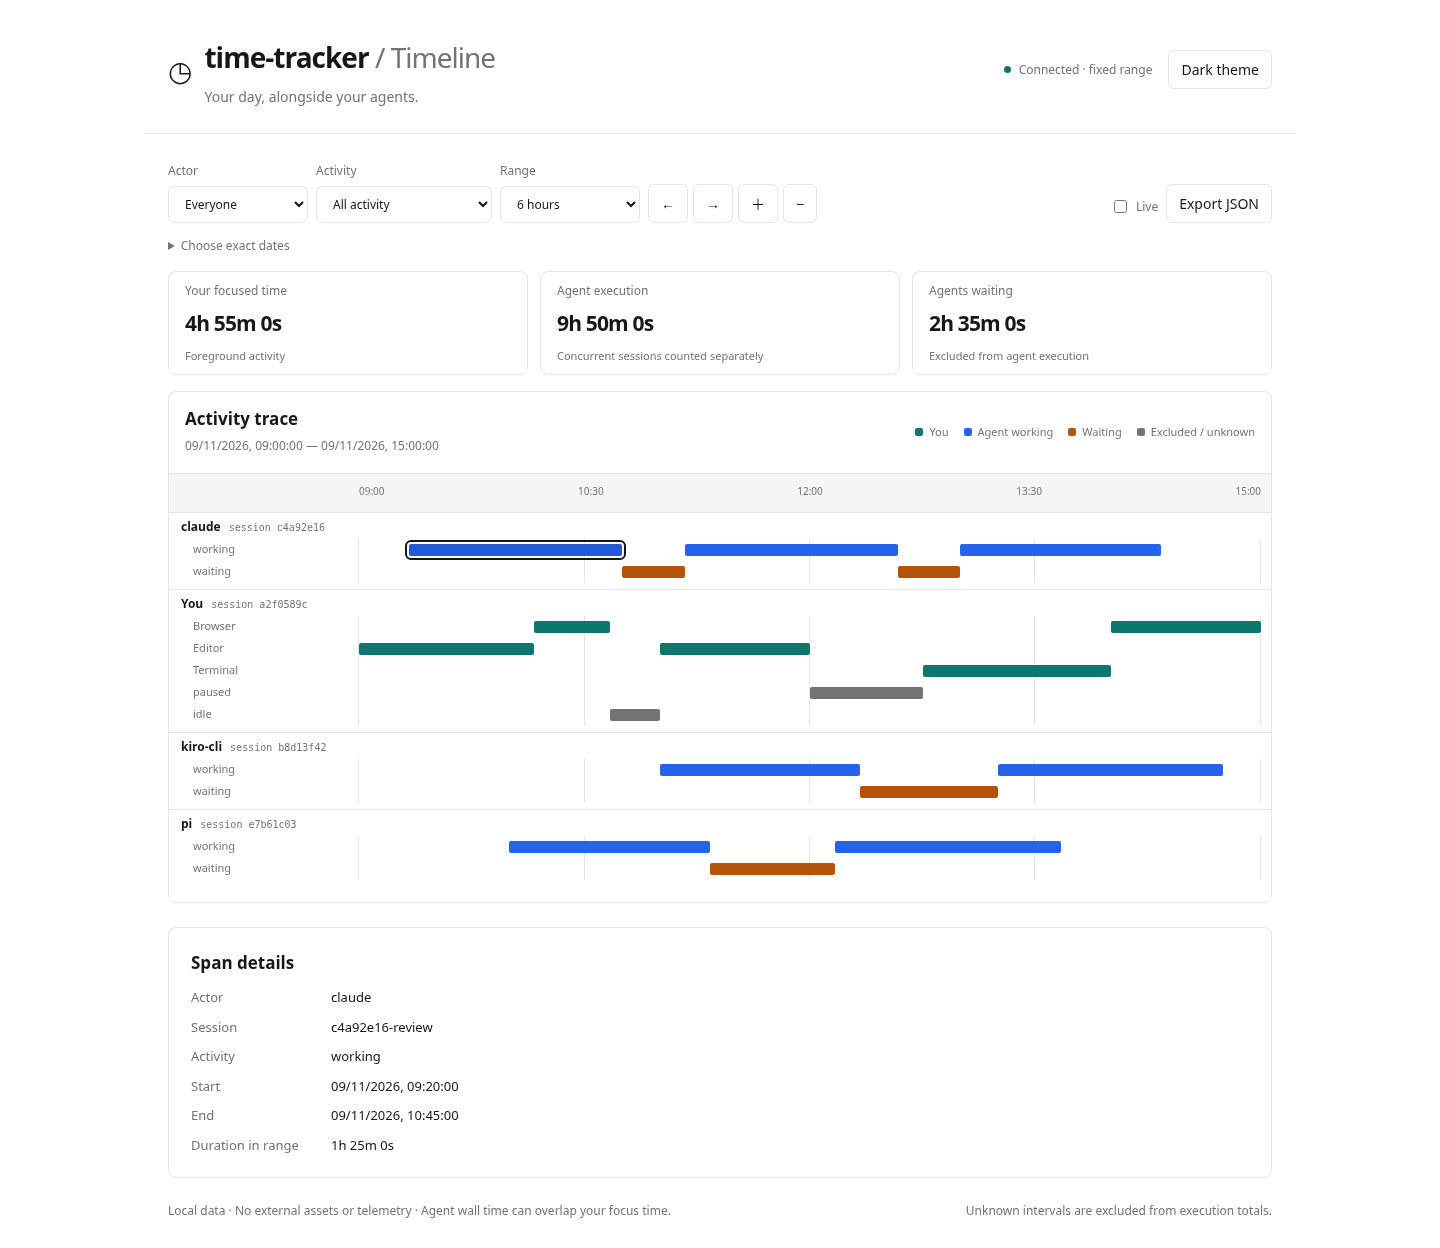
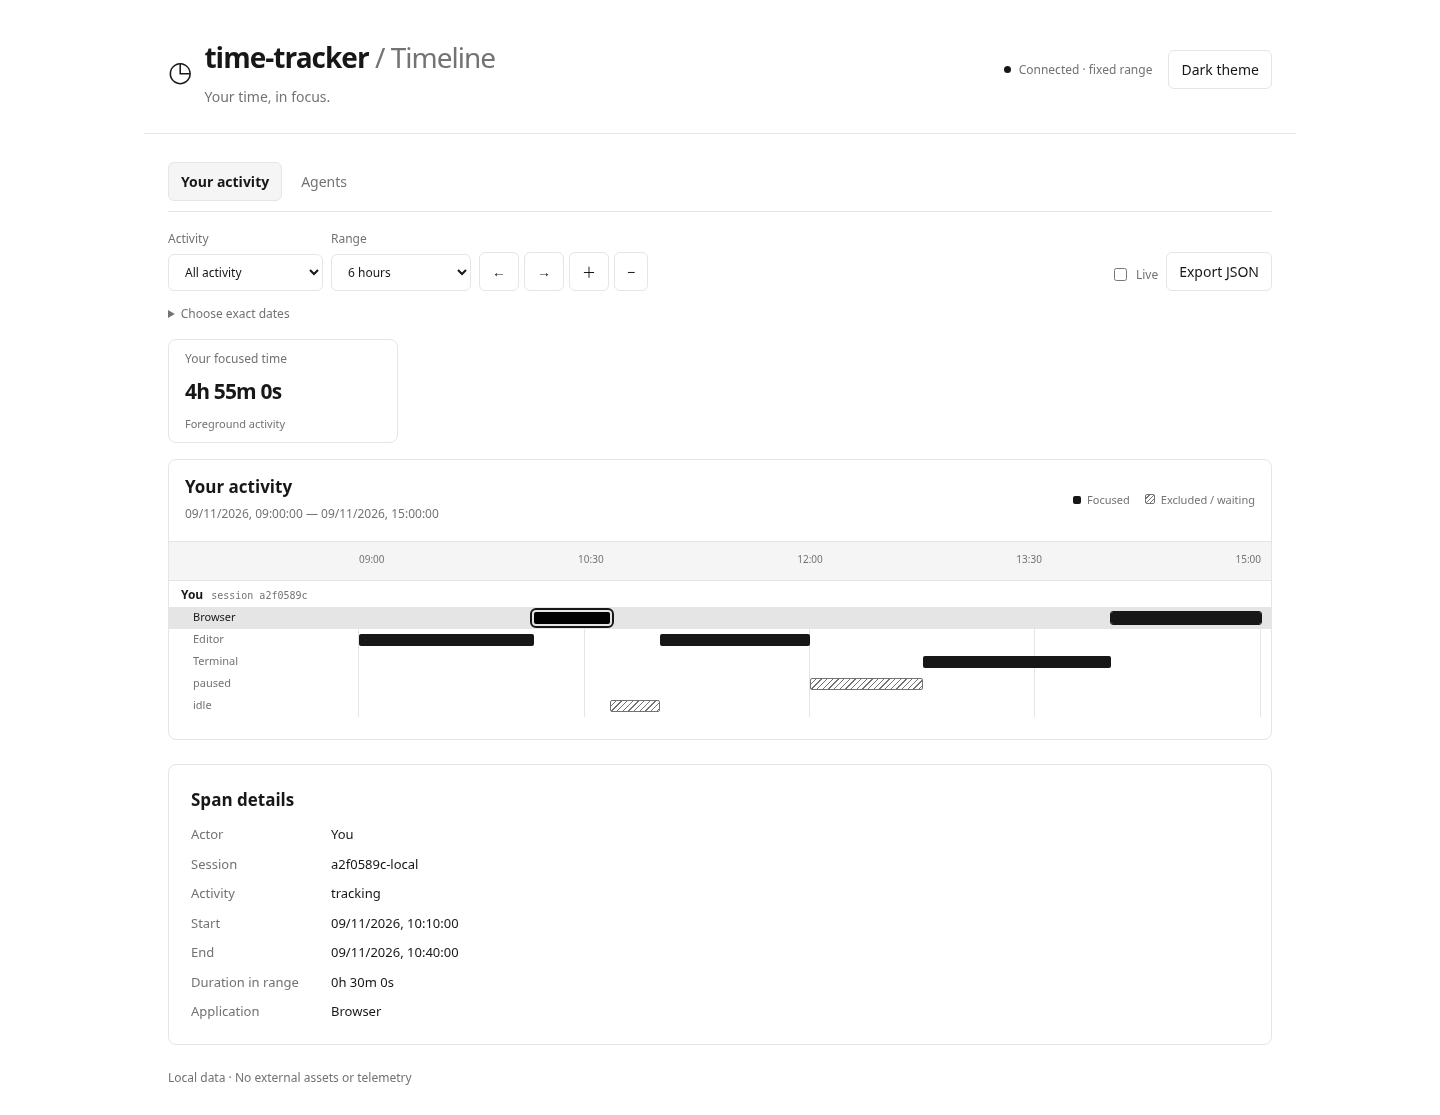
feat: prioritize personal activity with separate monochrome agent view

diff --git a/poc/timeline-web/style.css b/poc/timeline-web/style.css
@@ -6,13 +6,15 @@
   --line: #e5e5e5;
   --text: #171717;
   --muted: #737373;
-  --accent: #2563eb;
+  --accent: #171717;
   --soft: #f5f5f5;
-  --human: #0f766e;
-  --working: #2563eb;
-  --waiting: #b45309;
+  --human: #171717;
+  --working: #171717;
+  --waiting: #737373;
   --unknown: #737373;
   --span-text: #fff;
+  --row-hover: #e5e5e5;
+  --bar-hover: #000;
 }
 :root[data-theme=dark] {
   color-scheme: dark;
@@ -21,13 +23,15 @@
   --line: #363636;
   --text: #fafafa;
   --muted: #aaa;
-  --accent: #60a5fa;
+  --accent: #fafafa;
   --soft: #262626;
-  --human: #5eead4;
-  --working: #60a5fa;
-  --waiting: #fbbf24;
+  --human: #fafafa;
+  --working: #fafafa;
+  --waiting: #aaa;
   --unknown: #aaa;
   --span-text: #171717;
+  --row-hover: #363636;
+  --bar-hover: #fff;
 }
 * { box-sizing: border-box; }
 [hidden] { display: none !important; }
@@ -45,6 +49,9 @@ p { margin: 4px 0; color: var(--muted); }
 #dot { width: 7px; height: 7px; border-radius: 50%; background: var(--waiting); }
 #dot.connected { background: var(--human); }
 main { max-width: 1152px; margin: auto; padding: 28px 24px; }
+.view-switch { display: flex; gap: 6px; margin-bottom: 18px; border-bottom: 1px solid var(--line); padding-bottom: 10px; }
+.view-switch button { border-color: transparent; color: var(--muted); }
+.view-switch button[aria-pressed=true] { color: var(--text); background: var(--soft); border-color: var(--line); font-weight: 600; }
 .toolbar { display: flex; align-items: end; gap: 8px; flex-wrap: wrap; }
 label { display: flex; flex-direction: column; gap: 6px; font-size: 12px; color: var(--muted); }
 button,select,input { font: inherit; color: var(--text); background: var(--panel); border: 1px solid var(--line); border-radius: 6px; padding: 8px 12px; }
@@ -58,7 +65,7 @@ select { min-width: 140px; }
 .custom { margin: 14px 0; color: var(--muted); font-size: 12px; }
 .custom summary { cursor: pointer; }
 #dates { display: flex; gap: 12px; align-items: end; flex-wrap: wrap; padding-top: 12px; }
-.metrics { display: grid; grid-template-columns: repeat(3,1fr); gap: 12px; margin: 16px 0; }
+.metrics { display: grid; grid-template-columns: repeat(auto-fit,minmax(190px,230px)); gap: 12px; margin: 16px 0; }
 .metrics article { border: 1px solid var(--line); border-radius: 8px; padding: 10px 16px; background: var(--panel); display: flex; flex-direction: column; }
 .metrics span { color: var(--muted); font-size: 12px; }
 .metrics strong { font-size: 21px; letter-spacing: -.04em; font-weight: 600; margin: 8px 0; font-variant-numeric: tabular-nums; }
@@ -68,9 +75,8 @@ small { color: var(--muted); font-size: 11px; }
 .panel-heading p { font-size: 12px; margin-top: 5px; }
 .legend { display: flex; flex-wrap: wrap; gap: 15px; font-size: 11px; color: var(--muted); }
 .legend span:before { content: ''; display: inline-block; width: 8px; height: 8px; background: var(--unknown); border-radius: 2px; margin-right: 6px; }
-.legend .human:before { background: var(--human); }
-.legend .working:before { background: var(--working); }
-.legend .waiting:before { background: var(--waiting); }
+.legend .active:before { background: var(--text); }
+.legend .excluded:before { border: 1px solid var(--muted); background: repeating-linear-gradient(135deg,var(--panel) 0,var(--panel) 2px,var(--muted) 2px,var(--muted) 3px); }
 #notice { font-size: 12px; color: var(--text); padding: 0 22px; }
 #notice:not(:empty) { padding: 12px 22px; border-left: 3px solid var(--accent); }
 #timeline { overflow-x: auto; padding-bottom: 16px; }
@@ -80,15 +86,18 @@ small { color: var(--muted); font-size: 11px; }
 .lane { border-top: 1px solid var(--line); min-width: 720px; padding-bottom: 6px; }
 .lane-label { padding: 5px 12px 3px; display: flex; align-items: baseline; gap: 8px; font-size: 12px; font-weight: 600; }
 .subtrack { height: 22px; }
+.subtrack:hover,.subtrack:focus-within { background-color: var(--row-hover); box-shadow: inset 0 1px var(--line),inset 0 -1px var(--line); }
+.subtrack:hover .subtrack-label,.subtrack:focus-within .subtrack-label { background: var(--row-hover); color: var(--text); }
+.subtrack:hover .span,.subtrack:focus-within .span { outline: 1px solid var(--text); outline-offset: 0; }
 .subtrack-label { position: sticky; left: 0; z-index: 3; padding: 2px 12px 2px 24px; border-right: 1px solid var(--line); color: var(--muted); background: var(--panel); font-size: 11px; overflow: hidden; text-overflow: ellipsis; white-space: nowrap; }
 .lane-label small { font-family: ui-monospace,monospace; font-size: 10px; font-weight: 400; }
 .track { position: relative; margin: 0 10px 0 0; min-height: 22px; background: repeating-linear-gradient(to right,transparent 0,transparent calc(25% - 1px),var(--line) calc(25% - 1px),var(--line) 25%); }
 .span { position: absolute; top: 5px; height: 12px; min-width: 2px; border: 0; border-radius: 2px; padding: 0; overflow: hidden; text-overflow: ellipsis; white-space: nowrap; text-align: left; font-size: 11px; color: var(--span-text); background: var(--unknown); }
 .span[data-status=working] { background: var(--working); }
 .span[data-status=tracking] { background: var(--human); }
-.span[data-status=waiting] { background: var(--waiting); }
-.span[aria-pressed=true] { outline: 2px solid var(--text); outline-offset: 2px; z-index: 2; }
-.span:hover { filter: brightness(.92); }
+.span:not([data-status=tracking]):not([data-status=working]) { border: 1px solid var(--muted); background: repeating-linear-gradient(135deg,var(--panel) 0,var(--panel) 3px,var(--muted) 3px,var(--muted) 4px); }
+.span[aria-pressed=true],.subtrack:hover .span[aria-pressed=true],.subtrack:focus-within .span[aria-pressed=true] { outline: 2px solid var(--text); outline-offset: 2px; z-index: 2; }
+.span[data-status=tracking]:hover,.span[data-status=working]:hover { background: var(--bar-hover); }
 #empty { text-align: center; padding: 50px 22px; }
 #empty p { max-width: 570px; margin: 10px auto; font-size: 13px; }
 .inspector { padding: 22px; }
@@ -113,7 +122,7 @@ code { color: var(--accent); }
 }
 @media print {
   :root,:root[data-theme=dark] { --bg:#fff; --panel:#fff; --text:#111; --muted:#555; --line:#ddd; --soft:#f5f5f5; }
-  .toolbar,.custom,.header-tools { display: none !important; }
+  .toolbar,.custom,.header-tools,.view-switch { display: none !important; }
   .panel,.metrics article { break-inside: avoid; }
   .span { print-color-adjust: exact; }
 }

diff --git a/poc/timeline-web/index.html b/poc/timeline-web/index.html
@@ -2,19 +2,20 @@
 <html lang="en">
 <head><meta charset="utf-8"><meta name="viewport" content="width=device-width,initial-scale=1"><title>Focus · Timeline</title><link rel="stylesheet" href="/style.css"><script src="/app.js" defer></script></head>
 <body>
-<header><div class="brand"><span class="mark" aria-hidden="true">◷</span><div><h1>time-tracker <span>/ Timeline</span></h1><p>Your day, alongside your agents.</p></div></div><div class="header-tools"><div class="connection"><span id="dot"></span><span id="connection" role="status">Connecting</span></div><button id="theme-toggle" type="button" aria-pressed="false">Dark theme</button></div></header>
+<header><div class="brand"><span class="mark" aria-hidden="true">◷</span><div><h1>time-tracker <span>/ Timeline</span></h1><p>Your time, in focus.</p></div></div><div class="header-tools"><div class="connection"><span id="dot"></span><span id="connection" role="status">Connecting</span></div><button id="theme-toggle" type="button" aria-pressed="false">Dark theme</button></div></header>
 <main>
+<nav class="view-switch" aria-label="Timeline view"><button id="view-person" type="button" aria-pressed="true">Your activity</button><button id="view-agents" type="button" aria-pressed="false">Agents</button></nav>
 <section class="toolbar" aria-label="Timeline controls">
-<label>Actor<select id="agent"><option value="">Everyone</option><option value="human">You</option><option>claude</option><option>pi</option><option>kiro-cli</option></select></label>
+<label id="agent-filter" hidden>Agent<select id="agent"><option value="agents">All agents</option><option>claude</option><option>pi</option><option>kiro-cli</option></select></label>
 <label>Activity<select id="status"><option value="">All activity</option><option value="working">Agent working</option><option value="waiting">Waiting</option><option value="tracking">Your focus</option><option value="paused">Paused</option><option value="idle">Idle</option><option value="locked">Locked</option><option value="unknown">Unknown / interrupted</option><option value="activity-unavailable">Activity unavailable</option><option value="IPC unavailable">IPC unavailable</option><option value="no focus">No focus</option></select></label>
 <label>Range<select id="range"><option value="900000">15 minutes</option><option value="3600000">1 hour</option><option value="21600000">6 hours</option><option value="86400000" selected>24 hours</option></select></label>
 <div class="navigation"><button id="previous" aria-label="Previous time range">←</button><button id="next" aria-label="Next time range">→</button><button id="zoom-in" aria-label="Zoom in">＋</button><button id="zoom-out" aria-label="Zoom out">−</button></div>
 <label class="live"><input type="checkbox" id="live" checked> Live</label><button id="export">Export JSON</button>
 </section>
 <details class="custom"><summary>Choose exact dates</summary><form id="dates"><label>From<input id="from" type="datetime-local" required></label><label>To<input id="to" type="datetime-local" required></label><button>Apply range</button></form></details>
-<section class="metrics" aria-label="Totals in selected range"><article><span>Your focused time</span><strong id="human-total">—</strong><small>Foreground activity</small></article><article><span>Agent execution</span><strong id="agent-total">—</strong><small>Concurrent sessions counted separately</small></article><article><span>Agents waiting</span><strong id="waiting-total">—</strong><small>Excluded from agent execution</small></article></section>
-<section class="panel"><div class="panel-heading"><div><h2>Activity trace</h2><p id="range-label">Loading your timeline…</p></div><div class="legend"><span class="human">You</span><span class="working">Agent working</span><span class="waiting">Waiting</span><span class="unknown">Excluded / unknown</span></div></div><div id="notice" role="status"></div><div id="timeline" aria-label="Activity timeline"></div><div id="empty" hidden><h3>No activity in this range</h3><p>Start the focus tracker with <code>--timeline</code>, or connect an agent using the integration guide.</p><p>Older summary checkpoints have no timeline history.</p></div></section>
+<section class="metrics" aria-label="Totals in selected range"><article id="human-metric"><span>Your focused time</span><strong id="human-total">—</strong><small>Foreground activity</small></article><article id="agent-metric" hidden><span>Agent execution</span><strong id="agent-total">—</strong><small>Concurrent sessions counted separately</small></article><article id="waiting-metric" hidden><span>Agents waiting</span><strong id="waiting-total">—</strong><small>Excluded from execution</small></article></section>
+<section class="panel"><div class="panel-heading"><div><h2 id="trace-title">Your activity</h2><p id="range-label">Loading your timeline…</p></div><div class="legend"><span id="legend-active" class="active">Focused</span><span class="excluded">Excluded / waiting</span></div></div><div id="notice" role="status"></div><div id="timeline" aria-label="Activity timeline"></div><div id="empty" hidden><h3 id="empty-title">No personal activity in this range</h3><p id="empty-help">Start the focus tracker with <code>--timeline</code> to record your activity.</p><p>Older summary checkpoints have no timeline history.</p></div></section>
 <section id="inspector" class="panel inspector" aria-label="Selected span details"><h2>Span details</h2><p>Select a span to inspect its actor, activity, start, end and duration.</p></section>
-<footer>Local data · No external assets or telemetry · Agent wall time can overlap your focus time. <span>Unknown intervals are excluded from execution totals.</span></footer>
+<footer>Local data · No external assets or telemetry <span id="agent-note" hidden>Concurrent agent wall time is separate from your focused time. Unknown intervals are excluded.</span></footer>
 </main>
 </body></html>

diff --git a/poc/timeline-web/app.js b/poc/timeline-web/app.js
@@ -1,6 +1,6 @@
 'use strict'
 const $ = id => document.getElementById(id)
-const state = { duration: 86400000, end: Date.now(), data: null, selected: null, request: 0 }
+const state = { duration: 86400000, end: Date.now(), data: null, selected: null, request: 0, view: 'person' }
 $('theme-toggle').onclick = () => {
   const dark = document.documentElement.dataset.theme !== 'dark'
   document.documentElement.dataset.theme = dark ? 'dark' : 'light'
@@ -89,7 +89,7 @@ function render(data) {
 async function refresh() {
   if ($('live').checked) state.end = Date.now()
   const sequence = ++state.request
-  const params = new URLSearchParams({ from: Math.round(state.end - state.duration), to: Math.round(state.end), agent: $('agent').value, status: $('status').value })
+  const params = new URLSearchParams({ from: Math.round(state.end - state.duration), to: Math.round(state.end), agent: state.view === 'person' ? 'human' : $('agent').value, status: $('status').value })
   try {
     const response = await fetch(`/api/timeline?${params}`)
     if (!response.ok) throw new Error('Timeline request failed')
@@ -106,6 +106,32 @@ async function refresh() {
     $('notice').textContent = 'Could not load the timeline. Check that the local collector is running. Displayed data may be stale.'
   }
 }
+function switchView(view) {
+  state.view = view
+  state.selected = null
+  state.data = null
+  $('timeline').replaceChildren()
+  inspect(null)
+  const personal = view === 'person'
+  $('view-person').setAttribute('aria-pressed', String(personal))
+  $('view-agents').setAttribute('aria-pressed', String(!personal))
+  $('agent-filter').hidden = personal
+  $('human-metric').hidden = !personal
+  $('agent-metric').hidden = personal
+  $('waiting-metric').hidden = personal
+  $('agent-note').hidden = personal
+  $('trace-title').textContent = personal ? 'Your activity' : 'Agent activity'
+  $('legend-active').textContent = personal ? 'Focused' : 'Working'
+  $('empty-title').textContent = personal ? 'No personal activity in this range' : 'No agent activity in this range'
+  $('empty-help').textContent = personal ? 'Start the focus tracker with --timeline to record your activity.' : 'Connect Claude, Pi or Kiro using the integration guide to record agent tasks.'
+  const filters = personal
+    ? [['', 'All activity'], ['tracking', 'Focused'], ['paused', 'Paused'], ['idle', 'Idle'], ['locked', 'Locked'], ['waiting', 'Waiting'], ['activity-unavailable', 'Activity unavailable'], ['IPC unavailable', 'IPC unavailable'], ['no focus', 'No focus']]
+    : [['', 'All activity'], ['working', 'Working'], ['waiting', 'Waiting'], ['unknown', 'Unknown / interrupted']]
+  $('status').replaceChildren(...filters.map(([value, text]) => { const option = element('option', text); option.value = value; return option }))
+  void refresh()
+}
+$('view-person').onclick = () => switchView('person')
+$('view-agents').onclick = () => switchView('agents')
 for (const id of ['agent', 'status', 'live']) $(id).onchange = refresh
 $('range').onchange = () => { state.duration = Number($('range').value); void refresh() }
 $('previous').onclick = () => { $('live').checked = false; state.end = Math.max(state.duration, state.end - state.duration); void refresh() }
@@ -124,5 +150,5 @@ $('export').onclick = () => {
   const url = URL.createObjectURL(blob), link = element('a')
   link.href = url; link.download = 'focus-timeline.json'; link.click(); setTimeout(() => URL.revokeObjectURL(url), 1000)
 }
-void refresh()
+switchView('person')
 setInterval(() => { if (!document.hidden) void refresh() }, 5000)
